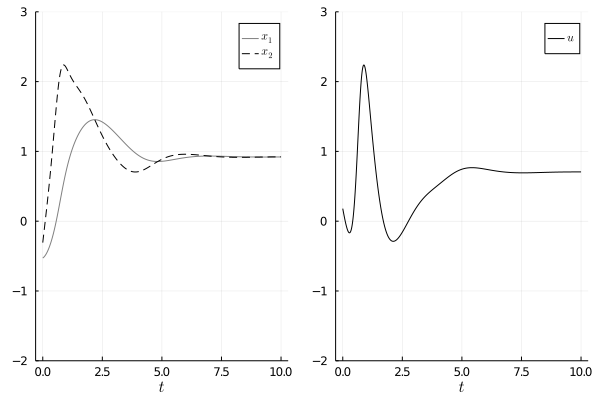
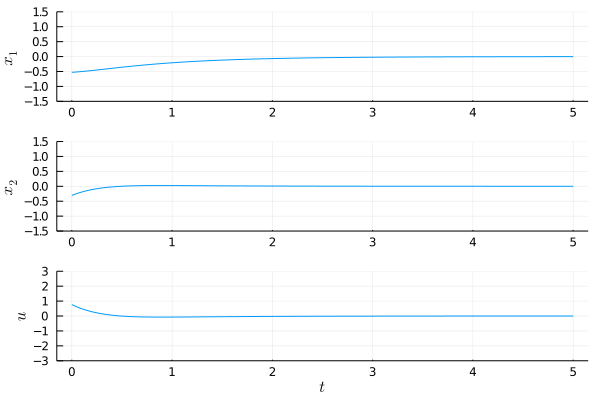
(v0.2.3) Fix a bug of predefined env, Refine example code (#18)
* WIP

* WIP

* Correct typos of a predefined env

* WIp

* WIP

* WIp

diff --git a/README.md b/README.md
@@ -46,7 +46,7 @@ LazyFym is highly based on `Transducers.jl` so various functionalities provided 
 Therefore, it is **highly recommended** to get used to `Transducers.jl` for the users of LazyFym (e.g., [glossary of Transducers.jl](https://juliafolds.github.io/Transducers.jl/dev/explanation/glossary/)).
 In addition,
 the following list of packages would be useful:
-- [Lazy.jl](https://github.com/MikeInnes/Lazy.jl) and [InfiniteArrays.jl](https://github.com/JuliaArrays/InfiniteArrays.jl) for dealing with infinite array and lazy evaluation
+- [Lazy.jl](https://github.com/MikeInnes/Lazy.jl) and [InfiniteArrays.jl](https://github.com/JuliaArrays/InfiniteArrays.jl) for dealing with lazy evaluation and infinite array
 - [StructArrays.jl](https://github.com/JuliaArrays/StructArrays.jl), [DataFrames.jl](https://github.com/JuliaData/DataFrames.jl), and [JLD2.jl](https://github.com/JuliaIO/JLD2.jl) for handling simulation data
 
 ### Quick start
@@ -63,6 +63,7 @@ using InfiniteArrays
 using StructArrays
 using Random
 using Plots, LaTeXStrings
+theme(:dark)
 
 
 function ẋ(env::LazyFym.InputAffineQuadraticCostEnv, x, t)
@@ -80,8 +81,10 @@ function postprocess(env::LazyFym.InputAffineQuadraticCostEnv)
     function _postprocess(_datum)
         t = _datum.t
         x = _datum.x
+        x1 = _datum.x[1]
+        x2 = _datum.x[2]
         u = command(env, x)
-        datum = (; t = t, x = x, u = u)
+        datum = (; t = t, x = x, x1=x1, x2=x2, u = u)
     end
 end
 
@@ -89,31 +92,30 @@ function single()
     Random.seed!(1)
     env = LazyFym.InputAffineQuadraticCostEnv()
     t0 = 0.0
-    t1 = 10.00
+    t1 = 5.00
     Δt = 0.01
     ts = t0:Δt:∞
     x0 = initial_condition(env)
     sim(x0) = t -> Sim(env, x0, ts, ẋ) |> TakeWhile(datum -> datum.t <= t) |> Map(postprocess(env)) |> collect |> StructArray
     traj_x0 = sim(x0)
     data = traj_x0(t1)
-    # data = @lazy traj_x0(t1);  # for lazy evaluation
-    l = @layout [a b]
-    p_x = plot(data.t, data.x |> sequentialise,
-        color=[:red :blue], xlabel=L"t", label=[L"x_{1}" L"x_{2}"], ylim=(-3, 3))
+    # data = @lazy traj_x0(t1);  # for lazy evaluation, see Lazy.jl
+    l = @layout [a; b; c]
+    p_x1 = plot(data.t, data.x1,
+                ylabel=L"x_{1}", label=nothing, ylim=(-2, 3))
+    p_x2 = plot(data.t, data.x2,
+                ylabel=L"x_{2}", label=nothing, ylim=(-2, 3))
     p_u = plot(data.t, data.u,
-        color=[:magenta], xlabel=L"t", label=L"u", ylim=(-3, 3))
-    p = plot(p_x, p_u, layout = l)
+               xlabel=L"t", ylabel=L"u", label=nothing, ylim=(-2, 3))
+    p = plot(p_x1, p_x2, p_u, layout = l)
     savefig(p, "figures/single.png")
 end
-single()
-```
-![single](./figures/single.png)
-```julia
+
 function parallel()
     Random.seed!(1)
     env = LazyFym.InputAffineQuadraticCostEnv()
     t0 = 0.0
-    t1 = 10.00
+    t1 = 5.00
     Δt = 0.01
     ts = t0:Δt:∞
     num = 10
@@ -121,18 +123,27 @@ function parallel()
     traj(x0) = Sim(env, x0, ts, ẋ) |> TakeWhile(datum -> datum.t <= t1) |> Map(postprocess(env)) |> collect
     data_parallel = x0s |> Map(x0 -> traj(x0)) |> Map(StructArray) |> tcollect
     # data_parallel_whole = data_parallel |> TCat(Threads.nthreads()) |> collect |> StructArray   # merge data
-    l = @layout [a b]
-    p_x = plot()
-    _ = data_parallel |> Map(data -> plot!(p_x, data.t, data.x |> sequentialise,
-                                           xlabel=L"t", label=[nothing nothing], color=[:red :blue], ylim=(-3, 3))) |> collect
+    l = @layout [a; b; c]
+    p_x1 = plot()
+    _ = data_parallel |> Map(data -> plot!(p_x1, data.t, data.x1,
+                                           ylabel=L"x_{1}", label=nothing,
+                                           ylim=(-2, 3))) |> collect
+    p_x2 = plot()
+    _ = data_parallel |> Map(data -> plot!(p_x2, data.t, data.x2,
+                                           ylabel=L"x_{2}", label=nothing,
+                                           ylim=(-2, 3))) |> collect
     p_u = plot()
     _ = data_parallel |> Map(data -> plot!(p_u, data.t, data.u,
-                                           xlabel=L"t", label=[nothing nothing], color=[:magenta], ylim=(-3, 3))) |> collect
-    p = plot(p_x, p_u, layout = l)
+                                           xlabel=L"t", ylabel=L"u", label=nothing,
+                                           ylim=(-2, 3))) |> collect
+    p = plot(p_x1, p_x2, p_u, layout = l)
     savefig(p, "figures/parallel.png")
 end
-parallel()
+
+# single()
+# parallel()
 ```
+![single](./figures/single.png)
 ![parallel](./figures/parallel.png)
 
 ## Performance Tips
